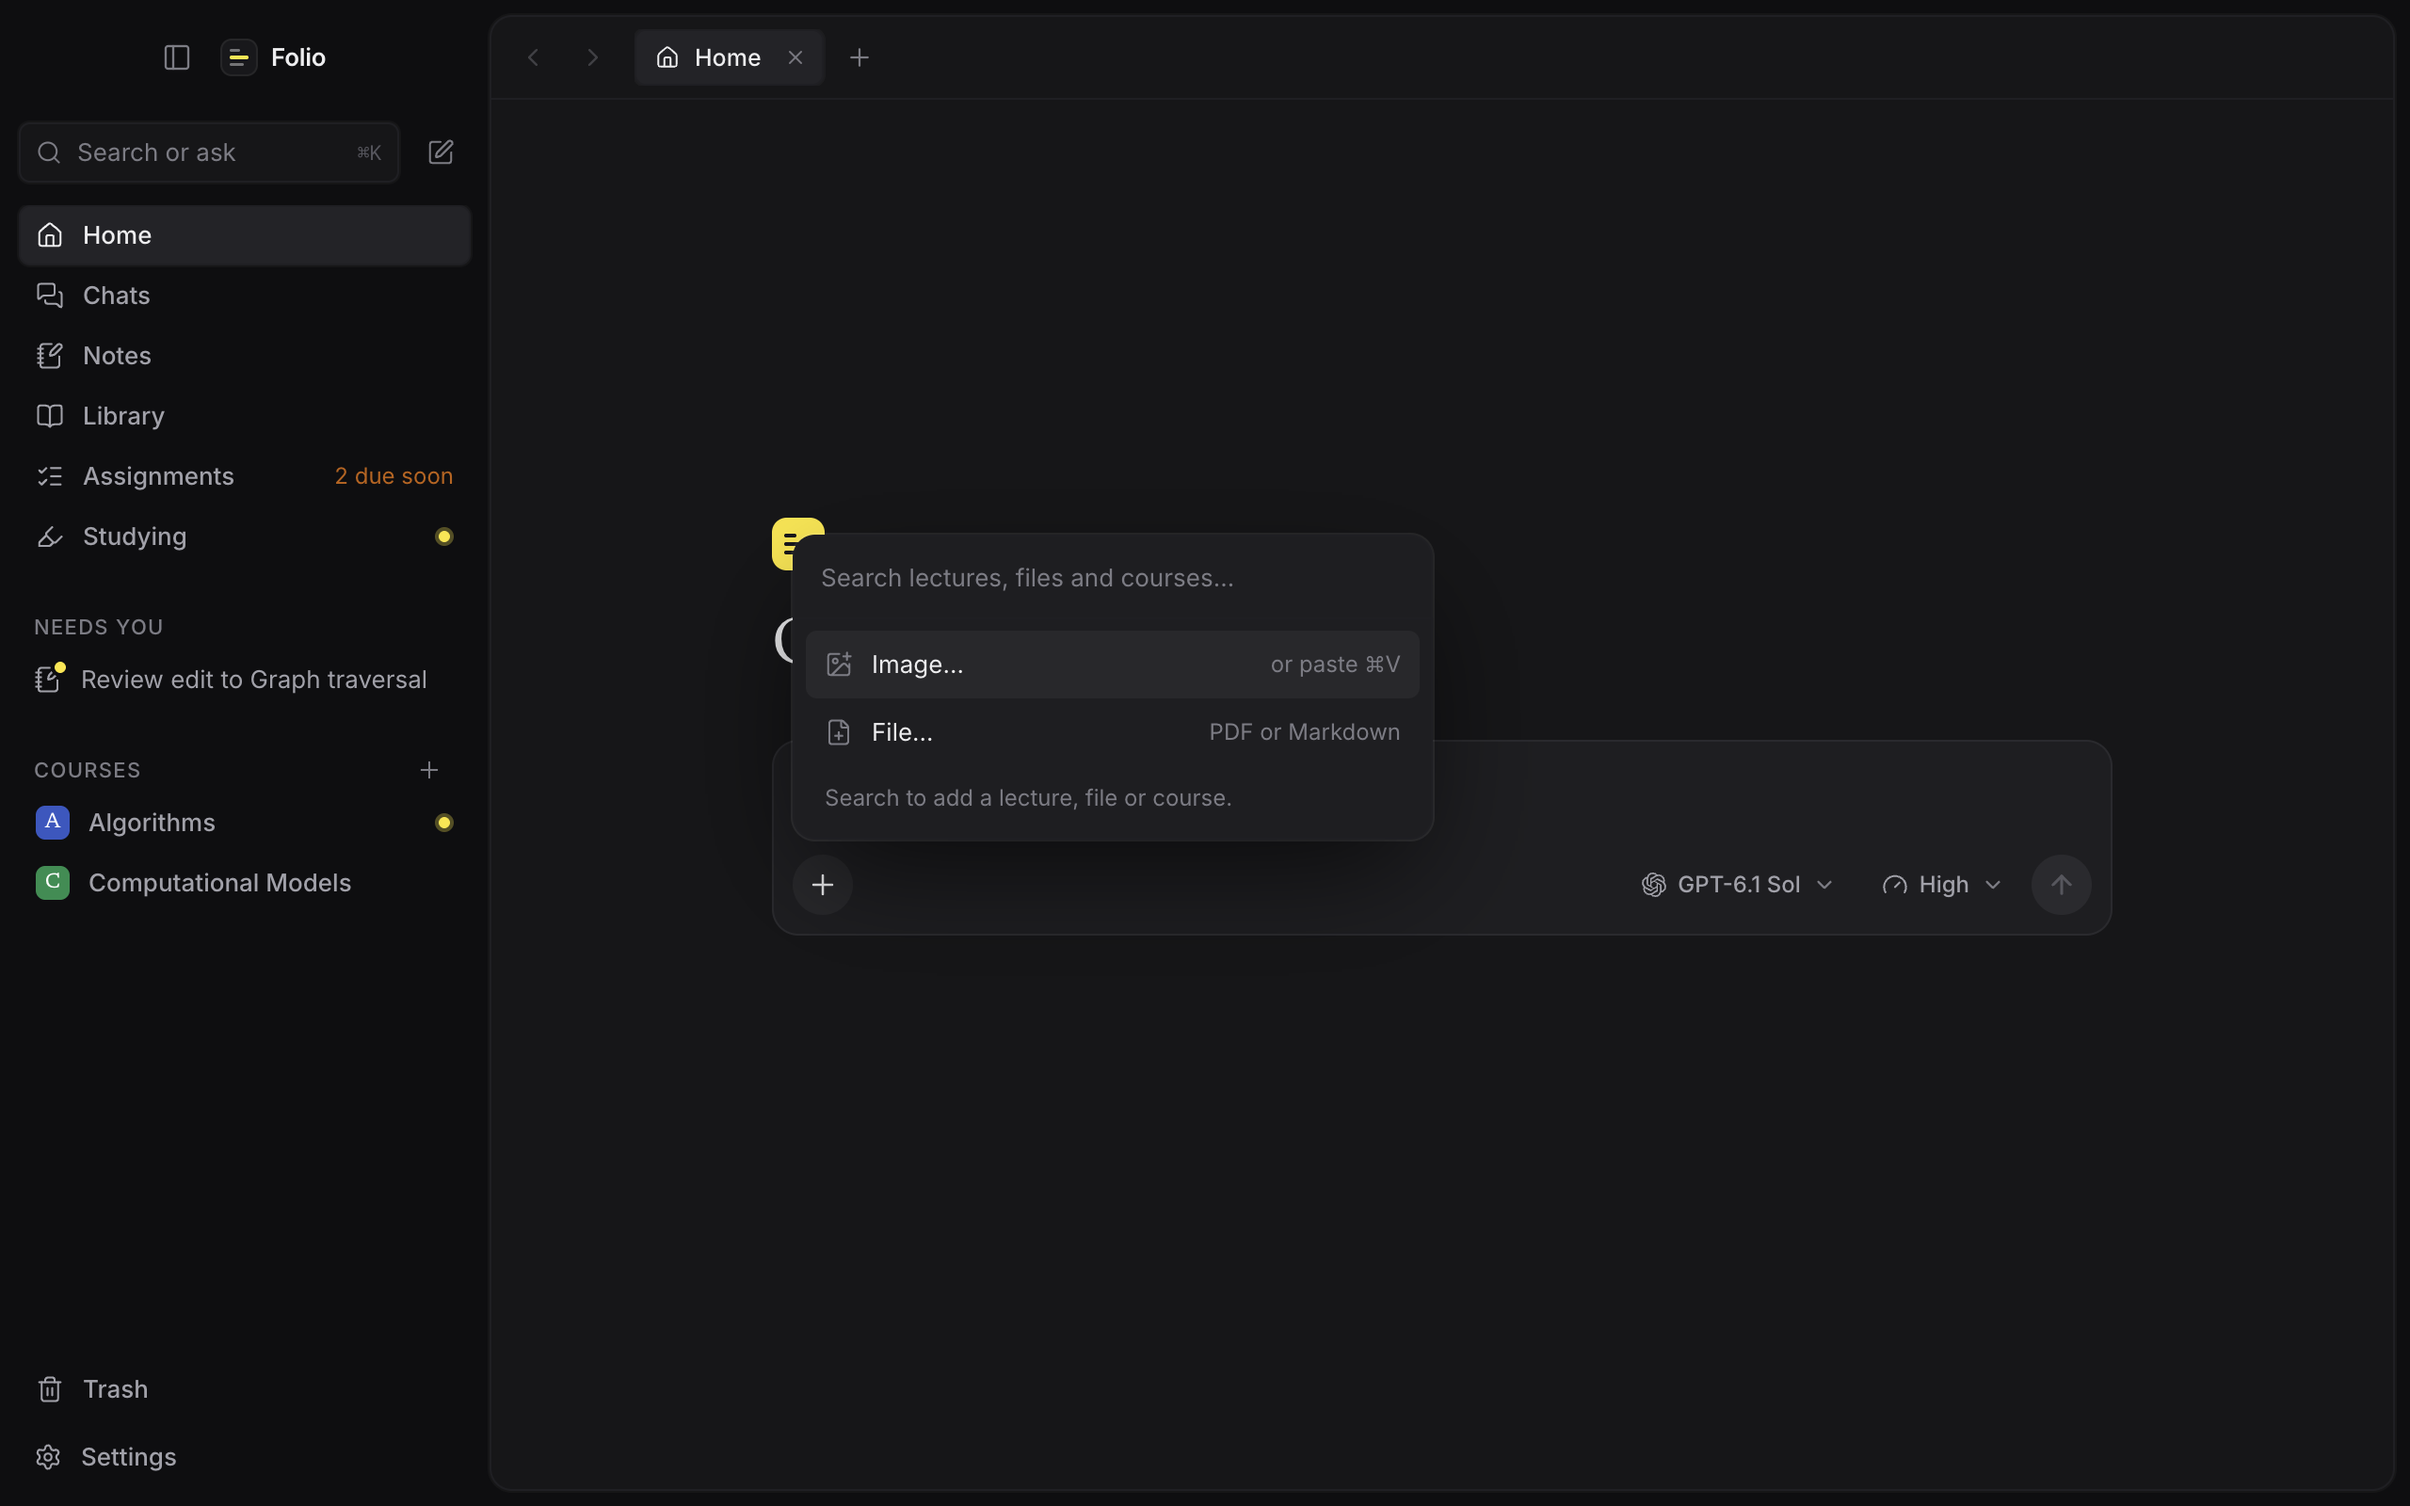
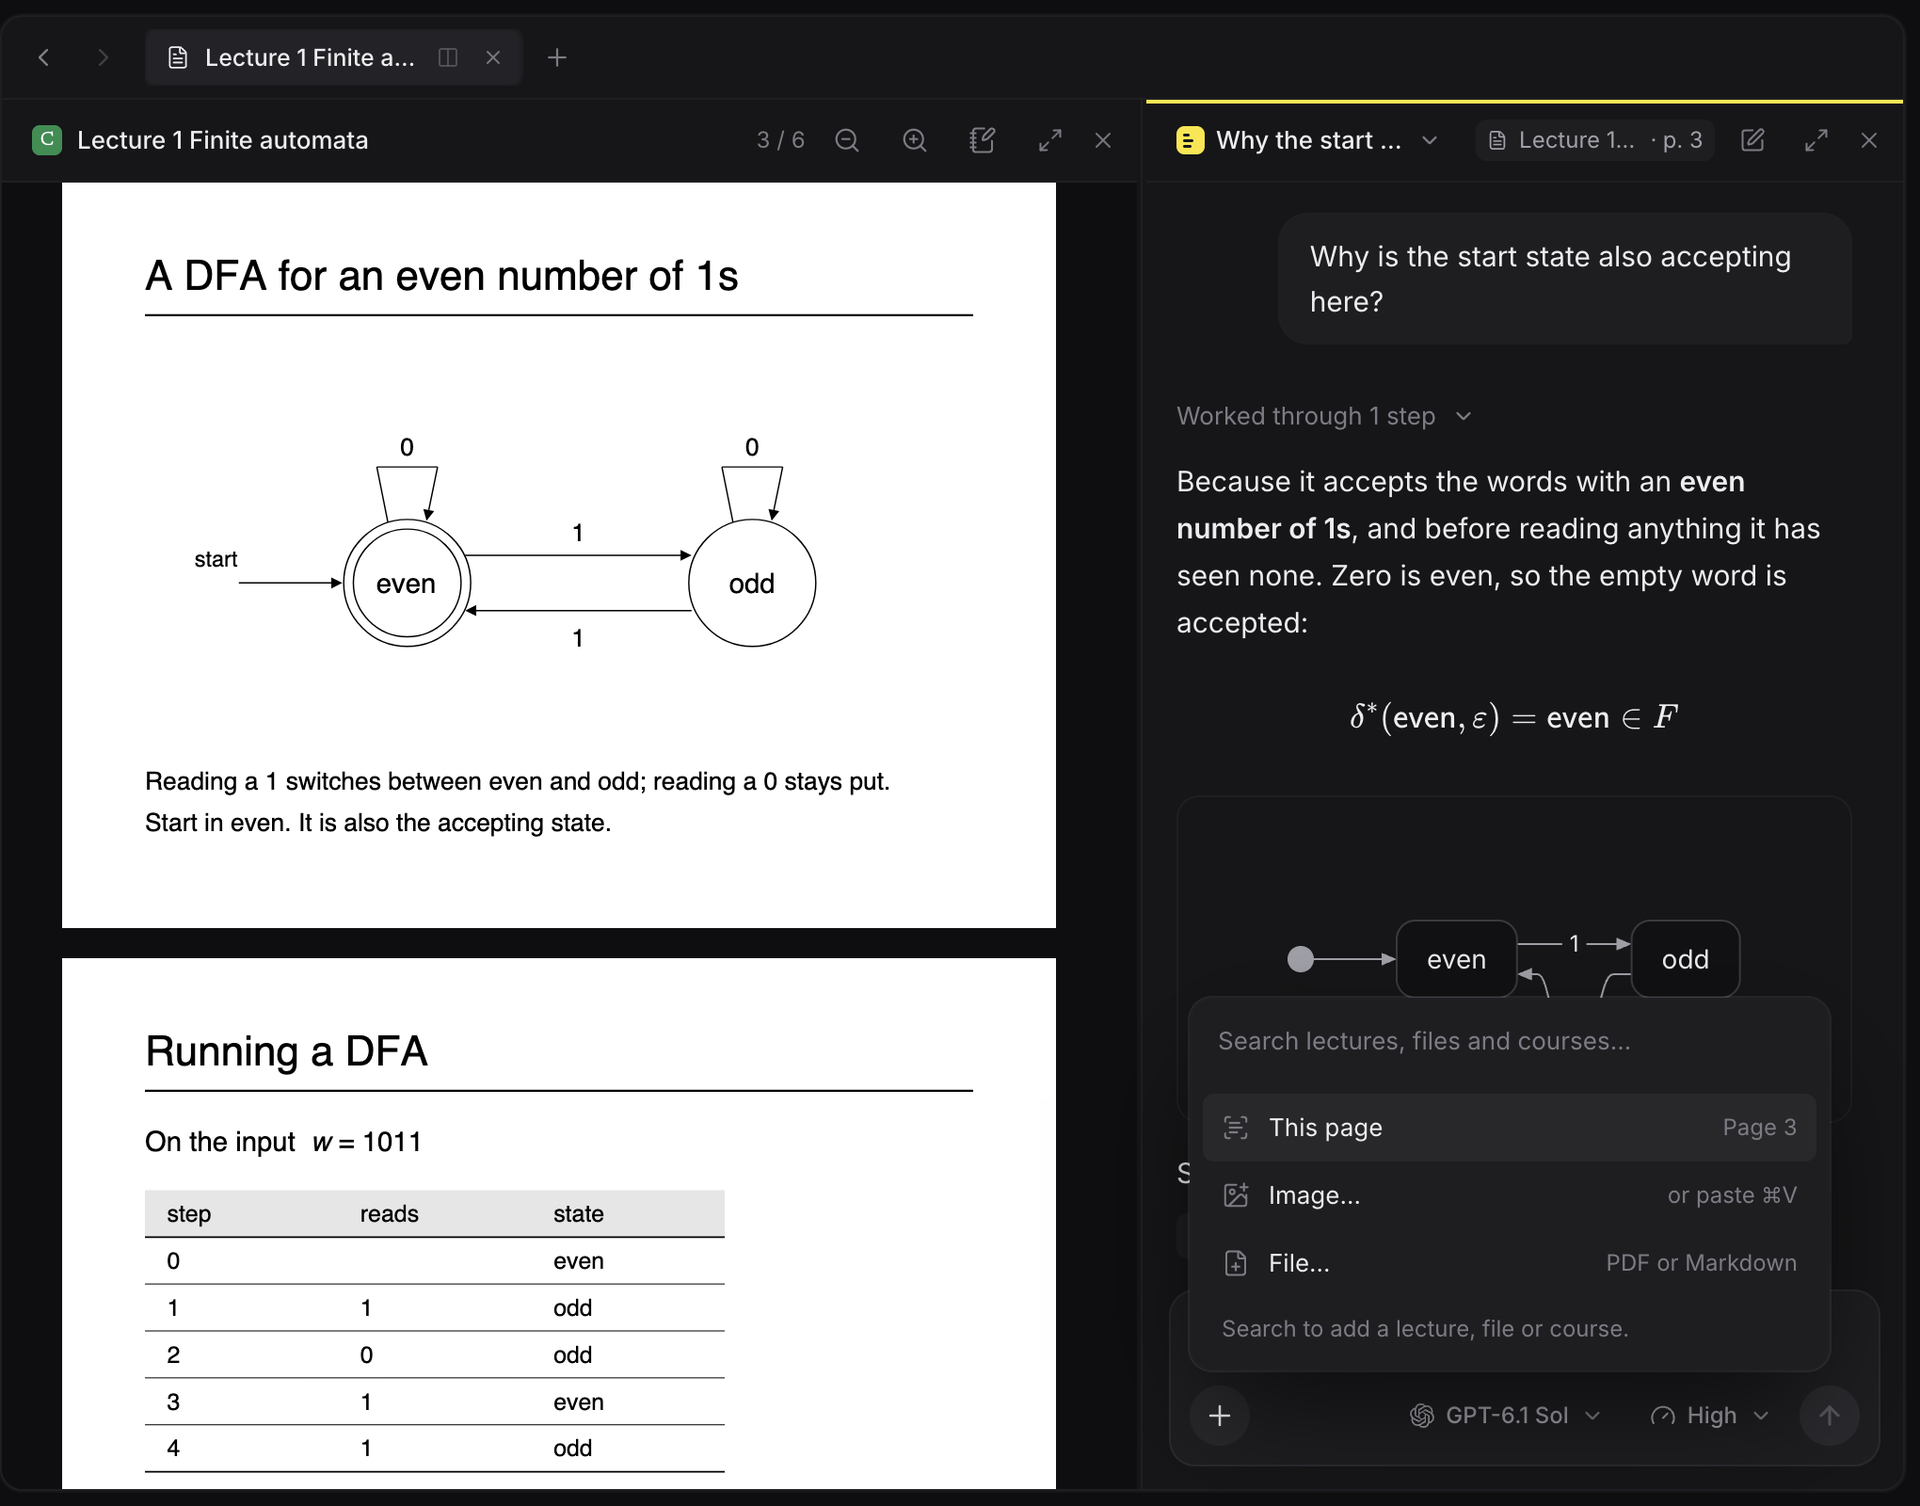
Crop the README's smaller pictures to the main view, and fill the board
The four pictures in the grid leave out the sidebar they all repeat, so they read at half width.
Adding context is shown beside a lecture, where the + offers the page on screen. The preview has
five more assignments, so each column of the board has some.

diff --git a/scripts/screenshots.ts b/scripts/screenshots.ts
@@ -21,31 +21,33 @@ interface Scene {
   name: string;
   /** Brings the preview from Home to the scene. */
   show(page: Page): Promise<void>;
+  /** Only the main view, without the sidebar, for the README's smaller pictures. */
+  main?: true;
 }
 
 const sidebar = (page: Page, name: string) =>
   page.locator("aside").getByText(name, { exact: true }).first();
 
+/**
+ * The automaton lecture at its slide, with the chat about it beside: a chat reopens beside the
+ * page it was about. The question is scrolled to the top of the chat.
+ */
+async function besideLecture(page: Page): Promise<void> {
+  await sidebar(page, "Computational Models").click();
+  await page.getByText("Why the start state is accepting", { exact: true }).click();
+  await page.locator(".prose-folio svg").first().waitFor();
+  const slide = page.locator('[data-page="3"]');
+  await slide.locator("canvas").waitFor();
+  await slide.evaluate((element) => element.scrollIntoView({ block: "start" }));
+  await page.getByText("Why is the start state also accepting here?").evaluate((element) => {
+    let chat = element.parentElement;
+    while (chat && !/auto|scroll/.test(getComputedStyle(chat).overflowY)) chat = chat.parentElement;
+    chat?.scrollTo({ top: 0 });
+  });
+}
+
 const SCENES: Scene[] = [
-  {
-    // A lecture with the tutor beside it: a chat reopens beside the page it was about.
-    name: "reader",
-    async show(page) {
-      await sidebar(page, "Computational Models").click();
-      await page.getByText("Why the start state is accepting", { exact: true }).click();
-      await page.locator(".prose-folio svg").first().waitFor();
-      // The slide the answer is about, and the question at the top of the chat.
-      const slide = page.locator('[data-page="3"]');
-      await slide.locator("canvas").waitFor();
-      await slide.evaluate((element) => element.scrollIntoView({ block: "start" }));
-      await page.getByText("Why is the start state also accepting here?").evaluate((element) => {
-        let chat = element.parentElement;
-        while (chat && !/auto|scroll/.test(getComputedStyle(chat).overflowY))
-          chat = chat.parentElement;
-        chat?.scrollTo({ top: 0 });
-      });
-    },
-  },
+  { name: "reader", show: besideLecture },
   {
     name: "study-notes",
     async show(page) {
@@ -53,6 +55,7 @@ const SCENES: Scene[] = [
       await page.getByRole("tab", { name: "Study notes" }).click();
       await page.getByText("Breadth-first search", { exact: true }).first().click();
     },
+    main: true,
   },
   {
     name: "notebook",
@@ -61,20 +64,23 @@ const SCENES: Scene[] = [
       await page.getByText("Regular languages", { exact: true }).first().click();
       await page.locator(".cm-editor").getByText("Closure").waitFor();
     },
+    main: true,
   },
   {
     name: "board",
     async show(page) {
       await sidebar(page, "Assignments").click();
     },
+    main: true,
   },
   {
-    // The + in the composer, finding lectures across courses.
+    // The + in the chat beside a lecture: the page on screen, an image, another lecture or course.
     name: "add-context",
     async show(page) {
-      await page.getByRole("button", { name: "Add to your question" }).click();
-      await page.keyboard.type("lecture");
+      await besideLecture(page);
+      await page.getByRole("button", { name: "Add to your question" }).last().click();
     },
+    main: true,
   },
 ];
 
@@ -159,7 +165,11 @@ try {
         await page.getByPlaceholder("Ask about any of your courses").waitFor();
         await scene.show(page);
         await stillness(page);
-        await page.screenshot({ path: resolve(ROOT, `docs/images/${scene.name}-${colors}.png`) });
+        const clip = scene.main ? await page.locator("main").boundingBox() : null;
+        await page.screenshot({
+          path: resolve(ROOT, `docs/images/${scene.name}-${colors}.png`),
+          ...(clip && { clip }),
+        });
         console.log(`docs/images/${scene.name}-${colors}.png`);
       }
   } finally {

diff --git a/app/lib/preview-api.ts b/app/lib/preview-api.ts
@@ -411,6 +411,57 @@ const assignments = new Map<string, AssignmentView>(
       ],
       grade: { score: 88, max: 100, text: "" },
     }),
+    // Computational Models' coursework, so each column of the board has some.
+    assignment(84, "Problem set 1: DFAs and their languages", {
+      courseId: id(2),
+      status: "doing",
+      dueAt: ago(-50),
+      steps: [
+        { id: id(121), text: "Question 1: a DFA for even numbers of 1s", done: true },
+        { id: id(122), text: "Question 2: the product construction", done: true },
+        { id: id(123), text: "Question 3: prove the language is regular", done: false },
+      ],
+    }),
+    assignment(85, "Read the notes on nondeterminism", {
+      courseId: id(2),
+      kind: "reading",
+      dueAt: ago(-30),
+    }),
+    assignment(86, "Prepare for the midterm", {
+      courseId: id(2),
+      kind: "exam_prep",
+      dueAt: ago(-24 * 12),
+    }),
+    assignment(87, "Lab 1: a DFA simulator", {
+      courseId: id(2),
+      kind: "lab",
+      status: "submitted",
+      dueAt: ago(10),
+      attempts: [
+        {
+          id: id(124),
+          submittedAt: ago(14),
+          files: [
+            {
+              id: id(125),
+              name: "dfa.py",
+              size: 3_200,
+              sha256: "0".repeat(64),
+              addedAt: ago(14),
+            },
+          ],
+          note: "",
+        },
+      ],
+    }),
+    assignment(88, "Quiz 0: sets and strings", {
+      courseId: id(2),
+      kind: "quiz",
+      status: "done",
+      dueAt: ago(200),
+      finishedAt: ago(190),
+      grade: { score: 9, max: 10, text: "" },
+    }),
   ].map((item) => [item.id, item]),
 );
 /** Each note's earlier versions in the preview, newest first. */

diff --git a/README.md b/README.md
@@ -90,10 +90,10 @@ lectures into notes you can browse, and it never changes your files.
   <source media="(prefers-color-scheme: dark)" srcset="docs/images/board-dark.png">
   <img src="docs/images/board-light.png" alt="The assignments board with columns To do, Doing, Submitted and Done">
 </picture></td>
-    <td width="50%"><b>Add context with +</b>, a lecture from any course<br><br>
+    <td width="50%"><b>Add context with +</b>: the page you're on, or any lecture<br><br>
 <picture>
   <source media="(prefers-color-scheme: dark)" srcset="docs/images/add-context-dark.png">
-  <img src="docs/images/add-context-light.png" alt="The + menu in the composer finding lectures across two courses">
+  <img src="docs/images/add-context-light.png" alt="The + menu in the chat beside a lecture, offering the page on screen, an image, a file, or a search for any lecture or course">
 </picture></td>
   </tr>
 </table>
